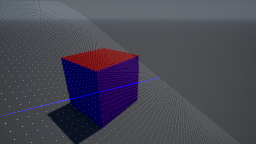
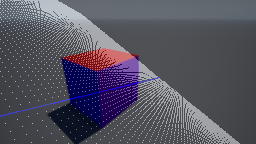
added code to genertate planar animations

diff --git a/measure_cube.py b/measure_cube.py
@@ -35,12 +35,12 @@ class Camera:
         self.cam_world_loc_xyz = None
         self.cam_world_loc_enu = None
         self.cam_quaternion = None
-        self.update_cam_loc_pose(cam_world_loc_enu, cam_quaternion)
+        self.projection_matrix = None
         self.im_w = im_w
         self.im_h = im_h
         self.hor_fov_deg = hor_fov_deg
         self.K = self.get_camera_calibration_matrix(self.im_w, self.im_h, self.hor_fov_deg)
-        self.projection_matrix = np.dot(self.K, self.RT)
+        self.update_cam_loc_pose(cam_world_loc_enu, cam_quaternion)
 
     def get_camera_calibration_matrix(self, im_w, im_h, hor_fov_deg):
         f = 1
@@ -70,6 +70,7 @@ class Camera:
         self.cam_world_loc_xyz = np.array([e, -u, n])
         self.cam_quaternion = cam_quaternion
         self.RT, self.R, self.T = self.get_cam_rot_trans_matrix(self.cam_world_loc_xyz, self.cam_quaternion)
+        self.projection_matrix = np.dot(self.K, self.RT)
 
     def enu2xyz(self, enus):
         es, ns, us = enus.T
@@ -93,64 +94,70 @@ class Camera:
         cam_plane_chosen_filt = np.ones(world_enus.shape[0]).astype(np.bool)
         if cam_extrinsic_matrix is not None:
             cam_xyzs = self.world_to_camera_xyzs(world_xyzs_in, cam_extrinsic_matrix)
-            cam_plane_chosen_filt = cam_xyzs[:, 2] > 0
+            cam_plane_chosen_filt = cam_xyzs[:, 2] >= 0
             world_xyzs_in = world_xyzs_in[cam_plane_chosen_filt]
             world_enus = world_enus_in[cam_plane_chosen_filt]
         world_xyzs = np.ones([world_enus.shape[0], 4])
         world_xyzs[:, :3] = world_xyzs_in
         im_uvs = np.dot(self.projection_matrix, world_xyzs.T).T
+        zs = im_uvs[:, 2]
+        im_uvs[zs == 0, 2] = 1
         im_uvs = (im_uvs[:, :2] / im_uvs[:, [2, 2]]).astype(np.int)
         return im_uvs, world_enus_in[cam_plane_chosen_filt], cam_plane_chosen_filt
 
-    def viz_points(self, world_enus_in):
+    def viz_points(self, world_enus_in, write_coords=True):
         xys, chosen_world_enus, chosen_points_filt = self.project_enus_to_imcoords(world_enus_in, self.RT)
         xs, ys = xys.T
-        f = np.logical_and(np.logical_and(xs > 0, xs < self.im_w), np.logical_and(ys > 0, ys < self.im_h))
+        f = np.logical_and(np.logical_and(xs >= 0, xs < self.im_w), np.logical_and(ys >= 0, ys < self.im_h))
         xs = xs[f]
         ys = ys[f]
         chosen_world_enus = chosen_world_enus[f]
         pixels = 1 / np.linalg.norm(chosen_world_enus, axis=1)**2
         pixels = pixels - pixels.min()
         pixels = pixels / pixels.max()
-        pixels = (pixels * .9) + .1
+        pixels = (pixels * .3) + .7
         pixels = (np.tile(np.array([pixels]).T, [1, 3]) * np.array([255, 255, 255])).astype(np.uint8)
         im = np.zeros([self.im_h, self.im_w, 3]).astype(np.uint8)
         im[ys, xs] = pixels
-        steps = 1000
+        if self.im_w < 500:
+            write_coords = False
+        text_scale = .4
+        if write_coords:
+            for i in range(chosen_world_enus.shape[0]):
+                cv2.putText(im, ','.join(list(map(str, chosen_world_enus[i]))), (int(xs[i]), int(ys[i])),
+                            cv2.FONT_HERSHEY_SIMPLEX, text_scale, [123, 156, 80], thickness=1)
+        steps = 10000
         e_enus = np.zeros([steps, 3])
-        e_enus[:, 0] = np.linspace(0, 100, 1000)
+        e_enus[:, 0] = np.linspace(0, 100, steps)
         n_enus = np.zeros([steps, 3])
-        n_enus[:, 1] = np.linspace(0, 100, 1000)
+        n_enus[:, 1] = np.linspace(0, 100, steps)
         u_enus = np.zeros([steps, 3])
-        u_enus[:, 2] = np.linspace(0, 100, 1000)
+        u_enus[:, 2] = np.linspace(0, 100, steps)
 
         xys, _, _ = self.project_enus_to_imcoords(e_enus, self.RT)
         xs, ys = xys.T
-        f = np.logical_and(np.logical_and(xs > 0, xs < self.im_w), np.logical_and(ys > 0, ys < self.im_h))
+        f = np.logical_and(np.logical_and(xs >= 0, xs < self.im_w), np.logical_and(ys >= 0, ys < self.im_h))
         xs = xs[f]
         ys = ys[f]
         im[ys, xs] = [0, 255, 0]
 
         xys, _, _ = self.project_enus_to_imcoords(n_enus, self.RT)
         xs, ys = xys.T
-        f = np.logical_and(np.logical_and(xs > 0, xs < self.im_w), np.logical_and(ys > 0, ys < self.im_h))
+        f = np.logical_and(np.logical_and(xs >= 0, xs < self.im_w), np.logical_and(ys >= 0, ys < self.im_h))
         xs = xs[f]
         ys = ys[f]
         im[ys, xs] = [255, 0, 0]
 
         xys, _, _ = self.project_enus_to_imcoords(u_enus, self.RT)
         xs, ys = xys.T
-        f = np.logical_and(np.logical_and(xs > 0, xs < self.im_w), np.logical_and(ys > 0, ys < self.im_h))
+        f = np.logical_and(np.logical_and(xs >= 0, xs < self.im_w), np.logical_and(ys >= 0, ys < self.im_h))
         xs = xs[f]
         ys = ys[f]
         im[ys, xs] = [0, 0, 255]
 
-        # for i in range(enus.shape[0]):
-        #     cv2.putText(im, ','.join(list(map(str, enus[i]))), (int(xs[i]), int(ys[i])), cv2.FONT_HERSHEY_SIMPLEX,
-        #                 .2, 200, thickness=1)
         return im, chosen_points_filt
 
-    def viz_plane(self, side=100, plane_idx=0, plane_loc=0):
+    def viz_plane(self, side=100, plane_idx=0, plane_loc=0, write_coords=True):
         es = np.arange(-side, side)
         ns = np.arange(-side, side)
         us = np.arange(-side, side)
@@ -161,7 +168,7 @@ class Camera:
         elif plane_idx == 2:
             us = np.array([plane_loc])
         enus = np.array(list(itertools.product(es, ns, us)))
-        plane_viz, _ = self.viz_points(enus)
+        plane_viz, _ = self.viz_points(enus, write_coords=write_coords)
         return plane_viz
 
 
@@ -198,6 +205,7 @@ class View:
         return q, xyz
 
     def init(self, loc_xyz=None, quaternion=None):
+        # self.im = cv2.resize(cv2.imread(self.im_fpath), (1920, 1080))
         self.im = cv2.imread(self.im_fpath)
         self.im_h, self.im_w, _ = self.im.shape
         self.mask = cv2.imread(self.mask_fpath)
@@ -318,8 +326,34 @@ def vec2zeromat(xy):
                      [1,  0, -x],
                      [-y, x,  0]])
 
+#  up-down, pitch, yaw, roll
+def animate_plane(plane_idx=2, qidx=3, w=640, h=360, start_quaternion=[1., 0.1, 0., 0.1], start_enu=[0, 0, 0]):
+    cam = Camera(start_enu, w, h, start_quaternion)
+    qvals0 = np.linspace(-1., 1., 100)
+    qvals1 = np.linspace(1., -1., 100)
+    start_quaternion = np.array(start_quaternion)
+    while True:
+        for qval in qvals0:
+            q = start_quaternion.copy()
+            q[qidx] = qval
+            cam.update_cam_loc_pose(start_enu, q)
+            print(qval)
+            im = cam.viz_plane(100, plane_idx, -1, write_coords=False)
+            cv2.imshow('plane_render', im)
+            cv2.waitKey(1)
+        for qval in qvals1:
+            q = start_quaternion.copy()
+            q[qidx] = qval
+            cam.update_cam_loc_pose(start_enu, q)
+            print(qval)
+            im = cam.viz_plane(100, plane_idx, -1, write_coords=False)
+            cv2.imshow('plane_render', im)
+            cv2.waitKey(1)
+
 
 if __name__ == '__main__':
+    animate_plane()
+
     im_fpaths = np.array(glob(IMAGE_DIR + os.sep + '*'))
     ids = [n.split(os.sep)[-1].split('_')[0] for n in im_fpaths]
     id2fpath = lambda dir, id, suffix: dir + os.sep + id + '_' + suffix
@@ -332,36 +366,35 @@ if __name__ == '__main__':
     cube_side, top_bottom_xyzs = build3d.find_cube_side([1, 2])
     print('Cube side is', cube_side)
 
-    # cube_side, top_bottom_xyzs = build3d.find_cube_side([4, 5])
-    # print('Cube side is', cube_side)
+    cube_side, top_bottom_xyzs = build3d.find_cube_side([4, 5])
+    print('Cube side is', cube_side)
 
     cube_side, top_bottom_xyzs = build3d.find_cube_side([5, 9])
     print('Cube side is', cube_side)
 
 
-
     # targ_enu = np.array([[-10, 20, 9]])
-    # targ_enu = np.array([[-1, 20, 1]])
+    targ_enu = np.array([[-1, 20, 1]])
 
-    # w = 2560
-    # h = 1440
-    # build3d = Build3D()
-    #
-    # cam0 = Camera([0, 0, 0], w, h)
-    # v0 = cam0.viz_plane(10, 1, 20)
-    # cv2.imwrite('v0.png', v0)
-    # im_uvs0, world_enus_in0, cam_plane_chosen_filt0 = cam0.project_enus_to_imcoords(targ_enu)
-    #
-    # cam1 = Camera([-2, 5, 3], w, h, [1, 0.08, -0.1, 0.04])
-    # v1 = cam1.viz_plane(10, 1, 20)
-    # cv2.imwrite('v1.png', v1)
-    # im_uvs1, world_enus_in1, cam_plane_chosen_filt1 = cam1.project_enus_to_imcoords(targ_enu)
-    #
-    # # tracked_xys = np.array([p0, p1])
-    # tracked_xys = np.vstack([im_uvs0, im_uvs1])
-    #
-    # pred_xyz, pred_enu, match_error = build3d.extract_3d_points(tracked_xys, [cam0, cam1])
-    # recons_err = np.linalg.norm(targ_enu - pred_enu)
-    # print(recons_err, match_error, targ_enu, pred_enu)
-    # k = 0
+    w = 2560
+    h = 1440
+    build3d = Build3D()
+
+    cam0 = Camera([0, -1, 0], w, h, [1, 0.03, 0.01, -0.02])
+    v0 = cam0.viz_plane(10, 1, 20)
+    cv2.imwrite('v0.png', v0)
+    im_uvs0, world_enus_in0, cam_plane_chosen_filt0 = cam0.project_enus_to_imcoords(targ_enu)
+
+    cam1 = Camera([-2, 5, 3], w, h, [1, 0.08, -0.1, 0.04])
+    v1 = cam1.viz_plane(10, 1, 20)
+    cv2.imwrite('v1.png', v1)
+    im_uvs1, world_enus_in1, cam_plane_chosen_filt1 = cam1.project_enus_to_imcoords(targ_enu)
+
+    # tracked_xys = np.array([p0, p1])
+    tracked_xys = np.vstack([im_uvs0, im_uvs1])
+
+    pred_xyz, pred_enu, match_error = build3d.extract_3d_points(tracked_xys, [cam0, cam1])
+    recons_err = np.linalg.norm(targ_enu - pred_enu)
+    print(recons_err, match_error, targ_enu, pred_enu)
+    k = 0
 
